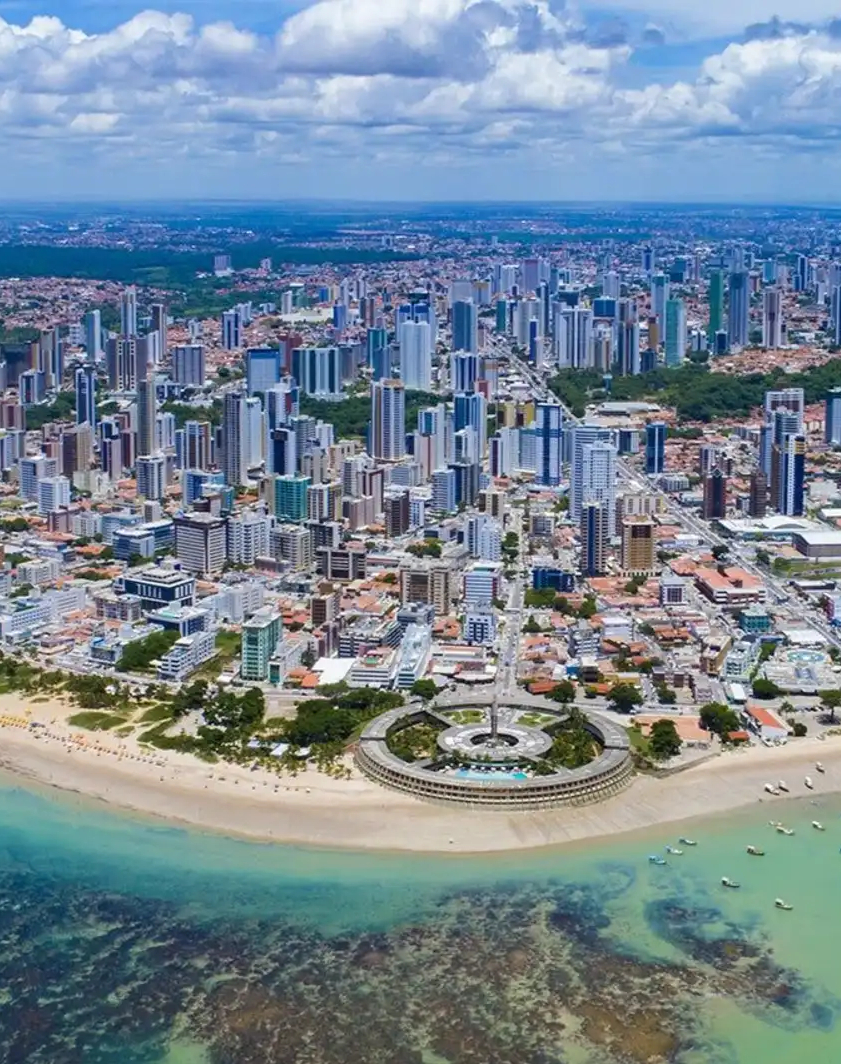
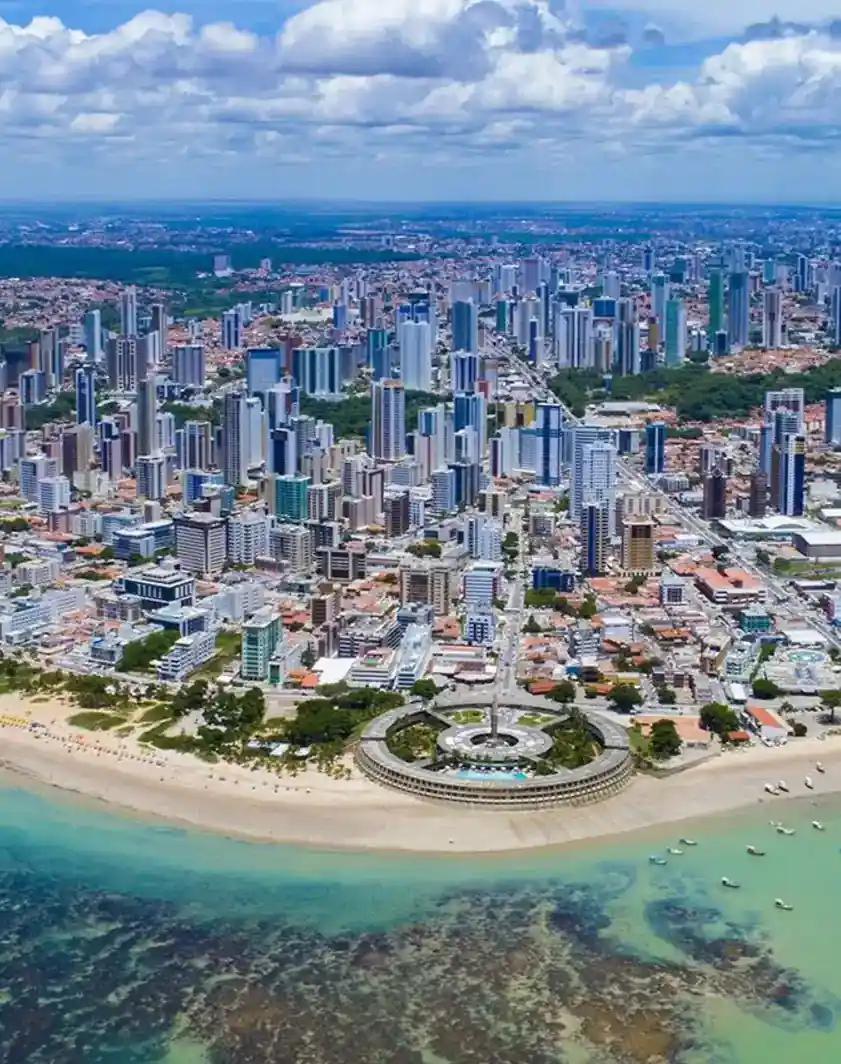
Fix audit corrections

diff --git a/place.html b/place.html
@@ -5,11 +5,11 @@
     <meta charset="UTF-8">
     <meta name="viewport" content="width=device-width, initial-scale=1.0">
     <meta name="author" content="Gabriel Mercês Silva">
-    <meta name="description" content="Webpage showing some of Brazil's relevant data">
+    <meta name="description" content="Webpage showing some of Brazil's relevant data and weather">
     <link rel="stylesheet" href="styles/place.css">
     <link rel="stylesheet" href="styles/place-query.css">
     <script src="scripts/place.js" defer></script>
-    <title>Country Page | Gabriel Mercês</title>
+    <title>Brazil | Country Page | Gabriel Mercês</title>
 </head>
 
 <body>
@@ -21,7 +21,7 @@
             <!--1600×1066, 1024×1066, 640×960-->
             <source srcset="images/jp-large.webp" media="(min-width: 1025px)" width="1600" height="1066">
             <source srcset="images/jp-medium.webp" media="(min-width: 641px)" width="1024" height="1066">
-            <img alt="Brazil" src="images/jp-small.webp" width="640" height="960">
+            <img alt="Brazilian city of João Pessoa" src="images/jp-small.webp" width="640" height="960">
         </picture>
         <section>
             <h2>Data</h2>
@@ -46,7 +46,7 @@
         </section>
         <section class="weather-section">
             <h2 class="weather-h2">Weather</h2>
-            <img src="images/weather.svg" alt="Weather Icon" width="150px" height="auto">
+            <img src="images/weather.svg" alt="Weather Icon" width="150" height="150">
             <dl>
                 <dt>Temperature:</dt>
                 <dd id="temperature"></dd>
